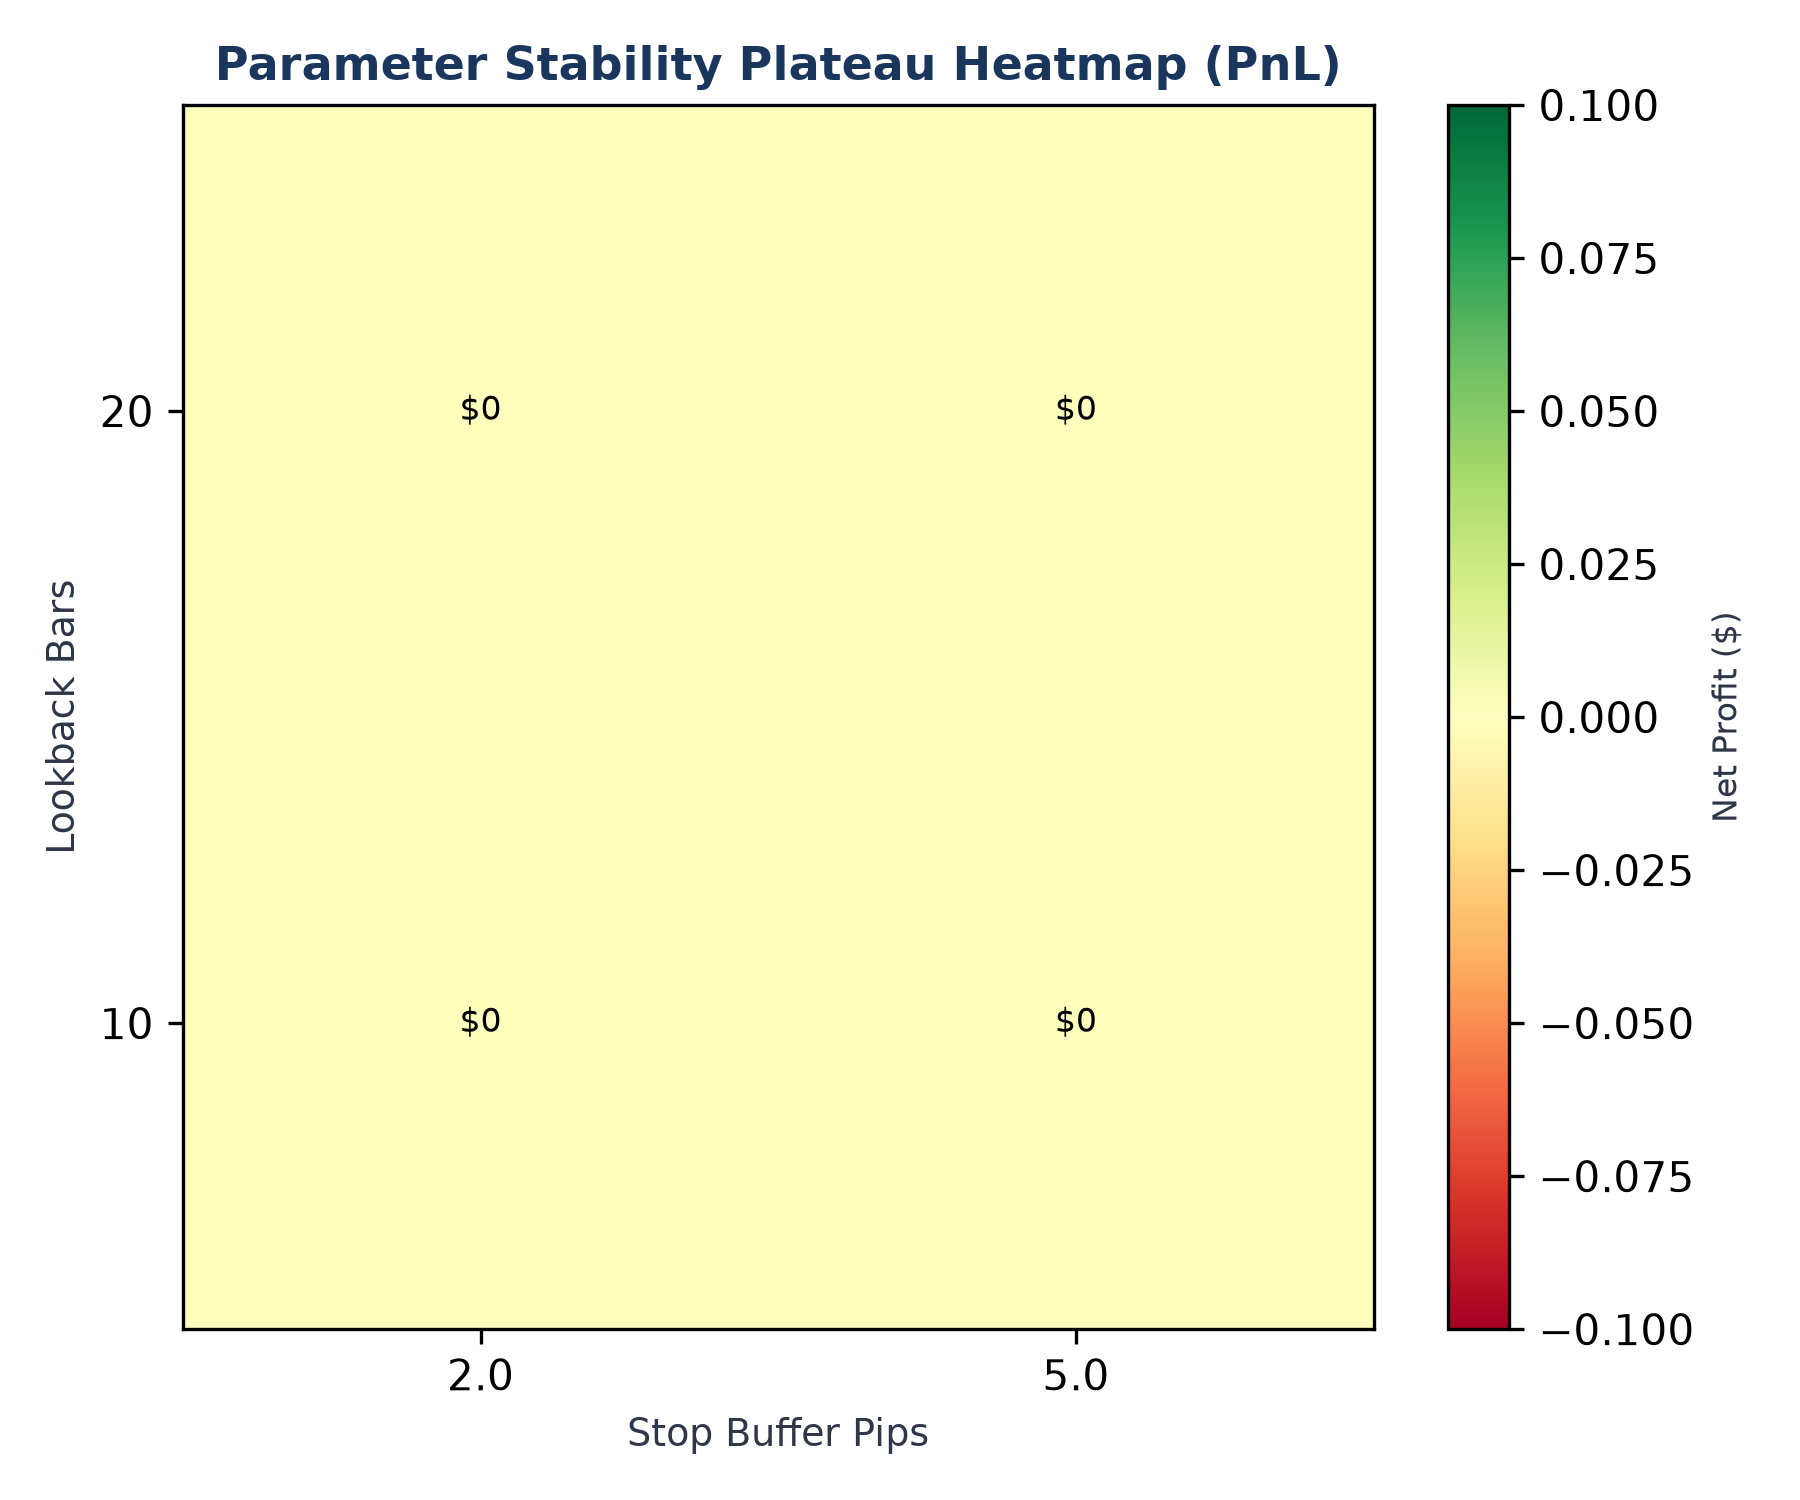
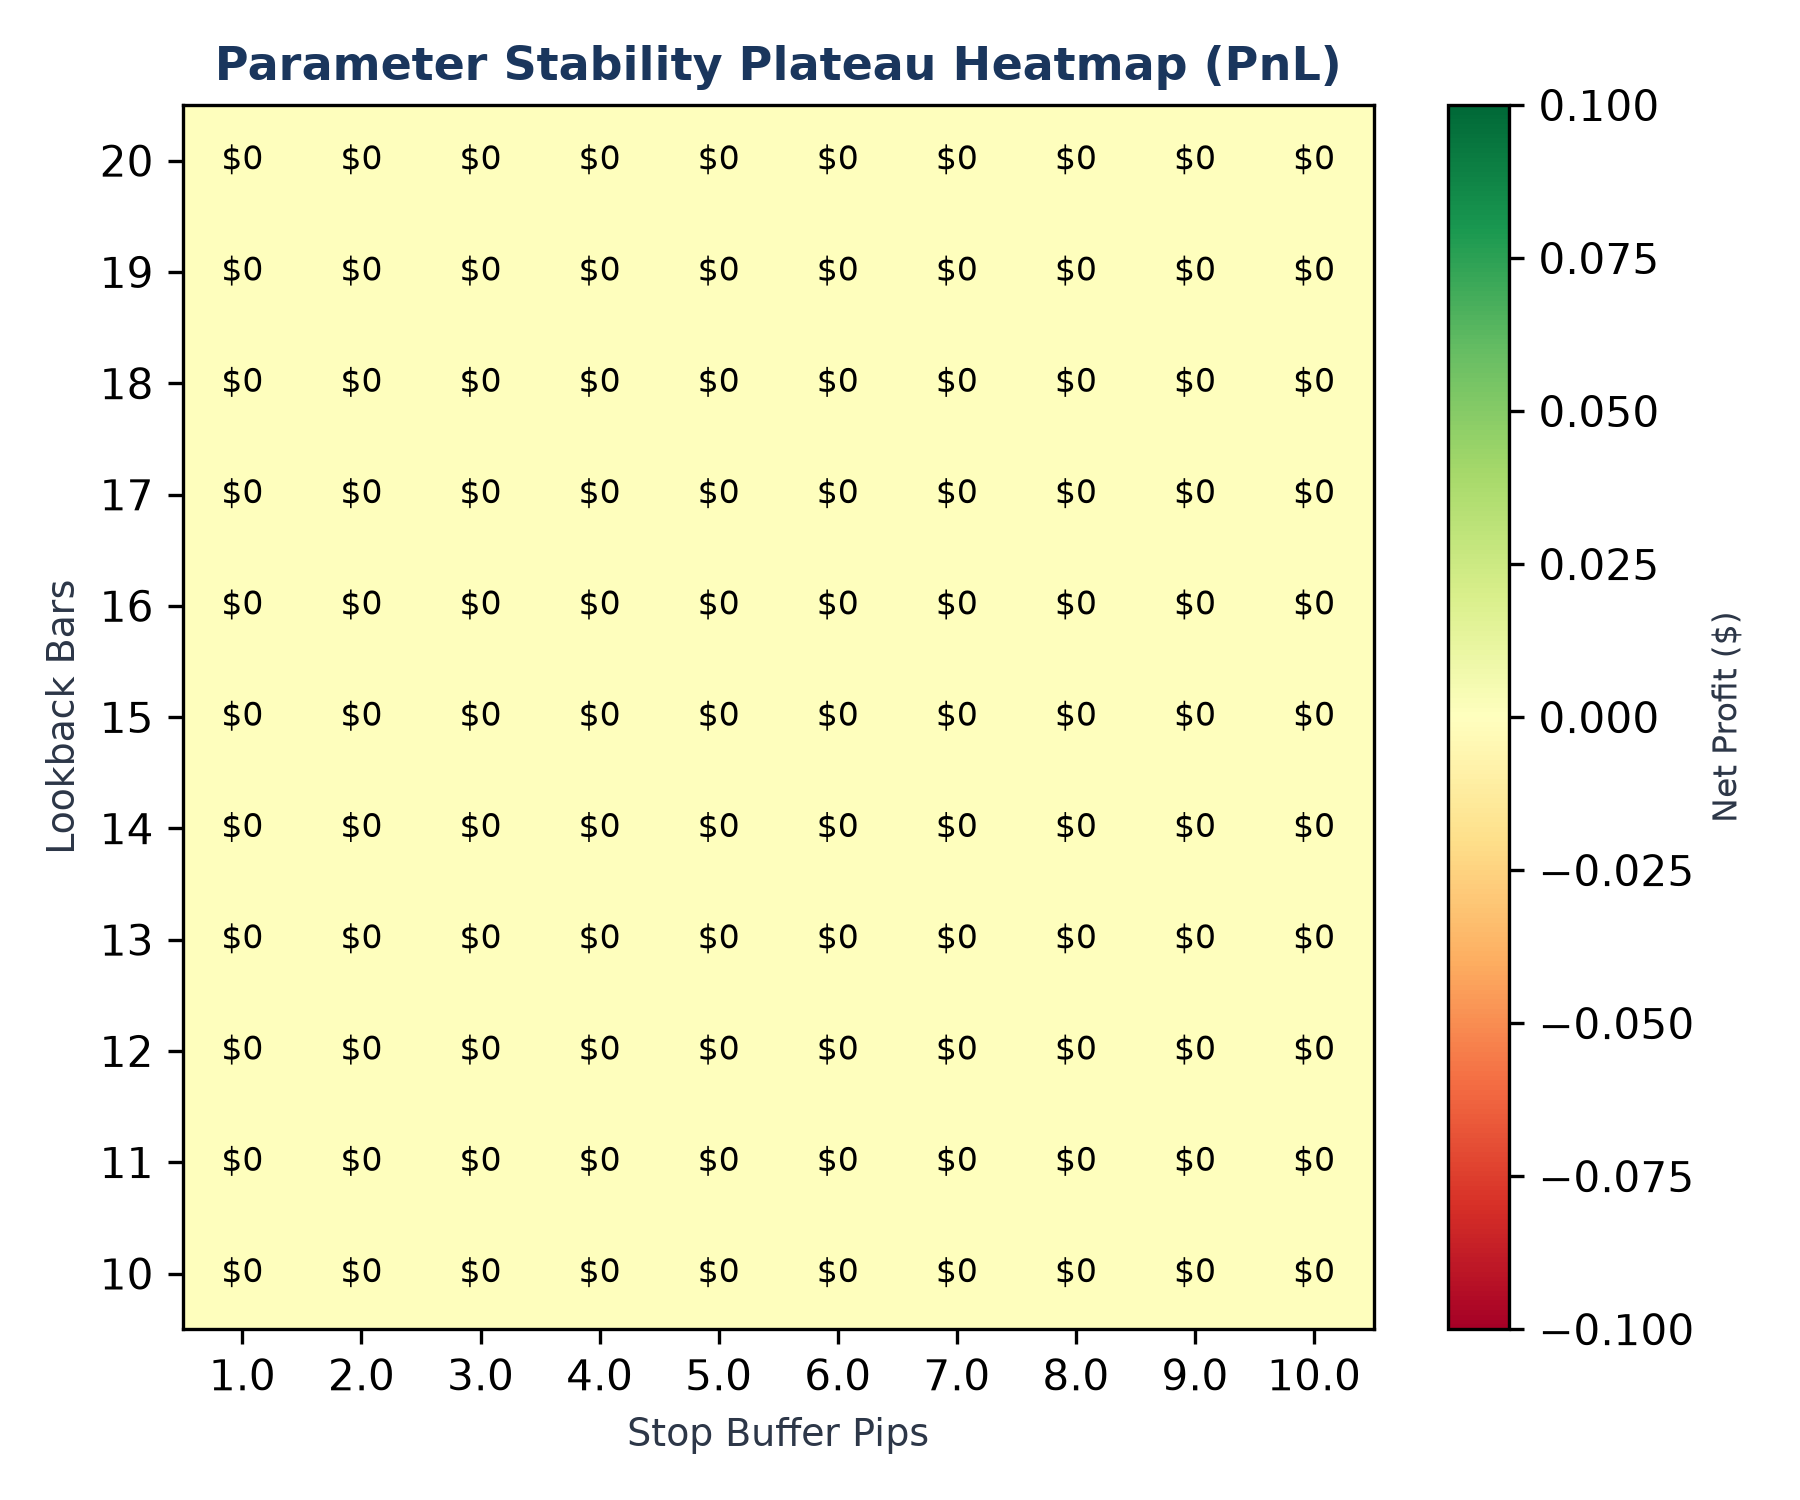
all

diff --git a/artifacts/stability_report.md b/artifacts/stability_report.md
@@ -1,0 +1,224 @@
+# Parameter Stability Report
+
+## Zero-Trade Cell Diagnostics
+
+**lookback_bars=10, stop_buffer_pips=1.0**: no_trend (60)
+
+**lookback_bars=10, stop_buffer_pips=2.0**: no_trend (60)
+
+**lookback_bars=10, stop_buffer_pips=3.0**: no_trend (60)
+
+**lookback_bars=10, stop_buffer_pips=4.0**: no_trend (60)
+
+**lookback_bars=10, stop_buffer_pips=5.0**: no_trend (60)
+
+**lookback_bars=10, stop_buffer_pips=6.0**: no_trend (60)
+
+**lookback_bars=10, stop_buffer_pips=7.0**: no_trend (60)
+
+**lookback_bars=10, stop_buffer_pips=8.0**: no_trend (60)
+
+**lookback_bars=10, stop_buffer_pips=9.0**: no_trend (60)
+
+**lookback_bars=10, stop_buffer_pips=10.0**: no_trend (60)
+
+**lookback_bars=11, stop_buffer_pips=1.0**: no_trend (60)
+
+**lookback_bars=11, stop_buffer_pips=2.0**: no_trend (60)
+
+**lookback_bars=11, stop_buffer_pips=3.0**: no_trend (60)
+
+**lookback_bars=11, stop_buffer_pips=4.0**: no_trend (60)
+
+**lookback_bars=11, stop_buffer_pips=5.0**: no_trend (60)
+
+**lookback_bars=11, stop_buffer_pips=6.0**: no_trend (60)
+
+**lookback_bars=11, stop_buffer_pips=7.0**: no_trend (60)
+
+**lookback_bars=11, stop_buffer_pips=8.0**: no_trend (60)
+
+**lookback_bars=11, stop_buffer_pips=9.0**: no_trend (60)
+
+**lookback_bars=11, stop_buffer_pips=10.0**: no_trend (60)
+
+**lookback_bars=12, stop_buffer_pips=1.0**: no_trend (60)
+
+**lookback_bars=12, stop_buffer_pips=2.0**: no_trend (60)
+
+**lookback_bars=12, stop_buffer_pips=3.0**: no_trend (60)
+
+**lookback_bars=12, stop_buffer_pips=4.0**: no_trend (60)
+
+**lookback_bars=12, stop_buffer_pips=5.0**: no_trend (60)
+
+**lookback_bars=12, stop_buffer_pips=6.0**: no_trend (60)
+
+**lookback_bars=12, stop_buffer_pips=7.0**: no_trend (60)
+
+**lookback_bars=12, stop_buffer_pips=8.0**: no_trend (60)
+
+**lookback_bars=12, stop_buffer_pips=9.0**: no_trend (60)
+
+**lookback_bars=12, stop_buffer_pips=10.0**: no_trend (60)
+
+**lookback_bars=13, stop_buffer_pips=1.0**: no_trend (60)
+
+**lookback_bars=13, stop_buffer_pips=2.0**: no_trend (60)
+
+**lookback_bars=13, stop_buffer_pips=3.0**: no_trend (60)
+
+**lookback_bars=13, stop_buffer_pips=4.0**: no_trend (60)
+
+**lookback_bars=13, stop_buffer_pips=5.0**: no_trend (60)
+
+**lookback_bars=13, stop_buffer_pips=6.0**: no_trend (60)
+
+**lookback_bars=13, stop_buffer_pips=7.0**: no_trend (60)
+
+**lookback_bars=13, stop_buffer_pips=8.0**: no_trend (60)
+
+**lookback_bars=13, stop_buffer_pips=9.0**: no_trend (60)
+
+**lookback_bars=13, stop_buffer_pips=10.0**: no_trend (60)
+
+**lookback_bars=14, stop_buffer_pips=1.0**: no_trend (60)
+
+**lookback_bars=14, stop_buffer_pips=2.0**: no_trend (60)
+
+**lookback_bars=14, stop_buffer_pips=3.0**: no_trend (60)
+
+**lookback_bars=14, stop_buffer_pips=4.0**: no_trend (60)
+
+**lookback_bars=14, stop_buffer_pips=5.0**: no_trend (60)
+
+**lookback_bars=14, stop_buffer_pips=6.0**: no_trend (60)
+
+**lookback_bars=14, stop_buffer_pips=7.0**: no_trend (60)
+
+**lookback_bars=14, stop_buffer_pips=8.0**: no_trend (60)
+
+**lookback_bars=14, stop_buffer_pips=9.0**: no_trend (60)
+
+**lookback_bars=14, stop_buffer_pips=10.0**: no_trend (60)
+
+**lookback_bars=15, stop_buffer_pips=1.0**: no_trend (60)
+
+**lookback_bars=15, stop_buffer_pips=2.0**: no_trend (60)
+
+**lookback_bars=15, stop_buffer_pips=3.0**: no_trend (60)
+
+**lookback_bars=15, stop_buffer_pips=4.0**: no_trend (60)
+
+**lookback_bars=15, stop_buffer_pips=5.0**: no_trend (60)
+
+**lookback_bars=15, stop_buffer_pips=6.0**: no_trend (60)
+
+**lookback_bars=15, stop_buffer_pips=7.0**: no_trend (60)
+
+**lookback_bars=15, stop_buffer_pips=8.0**: no_trend (60)
+
+**lookback_bars=15, stop_buffer_pips=9.0**: no_trend (60)
+
+**lookback_bars=15, stop_buffer_pips=10.0**: no_trend (60)
+
+**lookback_bars=16, stop_buffer_pips=1.0**: no_trend (60)
+
+**lookback_bars=16, stop_buffer_pips=2.0**: no_trend (60)
+
+**lookback_bars=16, stop_buffer_pips=3.0**: no_trend (60)
+
+**lookback_bars=16, stop_buffer_pips=4.0**: no_trend (60)
+
+**lookback_bars=16, stop_buffer_pips=5.0**: no_trend (60)
+
+**lookback_bars=16, stop_buffer_pips=6.0**: no_trend (60)
+
+**lookback_bars=16, stop_buffer_pips=7.0**: no_trend (60)
+
+**lookback_bars=16, stop_buffer_pips=8.0**: no_trend (60)
+
+**lookback_bars=16, stop_buffer_pips=9.0**: no_trend (60)
+
+**lookback_bars=16, stop_buffer_pips=10.0**: no_trend (60)
+
+**lookback_bars=17, stop_buffer_pips=1.0**: no_trend (60)
+
+**lookback_bars=17, stop_buffer_pips=2.0**: no_trend (60)
+
+**lookback_bars=17, stop_buffer_pips=3.0**: no_trend (60)
+
+**lookback_bars=17, stop_buffer_pips=4.0**: no_trend (60)
+
+**lookback_bars=17, stop_buffer_pips=5.0**: no_trend (60)
+
+**lookback_bars=17, stop_buffer_pips=6.0**: no_trend (60)
+
+**lookback_bars=17, stop_buffer_pips=7.0**: no_trend (60)
+
+**lookback_bars=17, stop_buffer_pips=8.0**: no_trend (60)
+
+**lookback_bars=17, stop_buffer_pips=9.0**: no_trend (60)
+
+**lookback_bars=17, stop_buffer_pips=10.0**: no_trend (60)
+
+**lookback_bars=18, stop_buffer_pips=1.0**: no_trend (60)
+
+**lookback_bars=18, stop_buffer_pips=2.0**: no_trend (60)
+
+**lookback_bars=18, stop_buffer_pips=3.0**: no_trend (60)
+
+**lookback_bars=18, stop_buffer_pips=4.0**: no_trend (60)
+
+**lookback_bars=18, stop_buffer_pips=5.0**: no_trend (60)
+
+**lookback_bars=18, stop_buffer_pips=6.0**: no_trend (60)
+
+**lookback_bars=18, stop_buffer_pips=7.0**: no_trend (60)
+
+**lookback_bars=18, stop_buffer_pips=8.0**: no_trend (60)
+
+**lookback_bars=18, stop_buffer_pips=9.0**: no_trend (60)
+
+**lookback_bars=18, stop_buffer_pips=10.0**: no_trend (60)
+
+**lookback_bars=19, stop_buffer_pips=1.0**: no_trend (60)
+
+**lookback_bars=19, stop_buffer_pips=2.0**: no_trend (60)
+
+**lookback_bars=19, stop_buffer_pips=3.0**: no_trend (60)
+
+**lookback_bars=19, stop_buffer_pips=4.0**: no_trend (60)
+
+**lookback_bars=19, stop_buffer_pips=5.0**: no_trend (60)
+
+**lookback_bars=19, stop_buffer_pips=6.0**: no_trend (60)
+
+**lookback_bars=19, stop_buffer_pips=7.0**: no_trend (60)
+
+**lookback_bars=19, stop_buffer_pips=8.0**: no_trend (60)
+
+**lookback_bars=19, stop_buffer_pips=9.0**: no_trend (60)
+
+**lookback_bars=19, stop_buffer_pips=10.0**: no_trend (60)
+
+**lookback_bars=20, stop_buffer_pips=1.0**: no_trend (60)
+
+**lookback_bars=20, stop_buffer_pips=2.0**: no_trend (60)
+
+**lookback_bars=20, stop_buffer_pips=3.0**: no_trend (60)
+
+**lookback_bars=20, stop_buffer_pips=4.0**: no_trend (60)
+
+**lookback_bars=20, stop_buffer_pips=5.0**: no_trend (60)
+
+**lookback_bars=20, stop_buffer_pips=6.0**: no_trend (60)
+
+**lookback_bars=20, stop_buffer_pips=7.0**: no_trend (60)
+
+**lookback_bars=20, stop_buffer_pips=8.0**: no_trend (60)
+
+**lookback_bars=20, stop_buffer_pips=9.0**: no_trend (60)
+
+**lookback_bars=20, stop_buffer_pips=10.0**: no_trend (60)
+

diff --git a/artifacts/monte_carlo_report.md b/artifacts/monte_carlo_report.md
@@ -6,10 +6,10 @@ Runs a randomized trade resampling simulation (N=10) to test equity curve robust
 
 | Parameter | Value |
 | --- | ---: |
-| Expected Return | $99.38 (+0.99%) |
+| Expected Return | $99.30 (+0.99%) |
 | Worst Case Max Drawdown | 0.00% |
-| 95% Confidence Interval Lower Bound | $10098.70 |
-| 95% Confidence Interval Upper Bound | $10099.96 |
+| 95% Confidence Interval Lower Bound | $10098.82 |
+| 95% Confidence Interval Upper Bound | $10099.91 |
 | Risk of Ruin (<30% Account size) | 0.00% |
 | Probability of Final Equity High | 100.00% |
 
